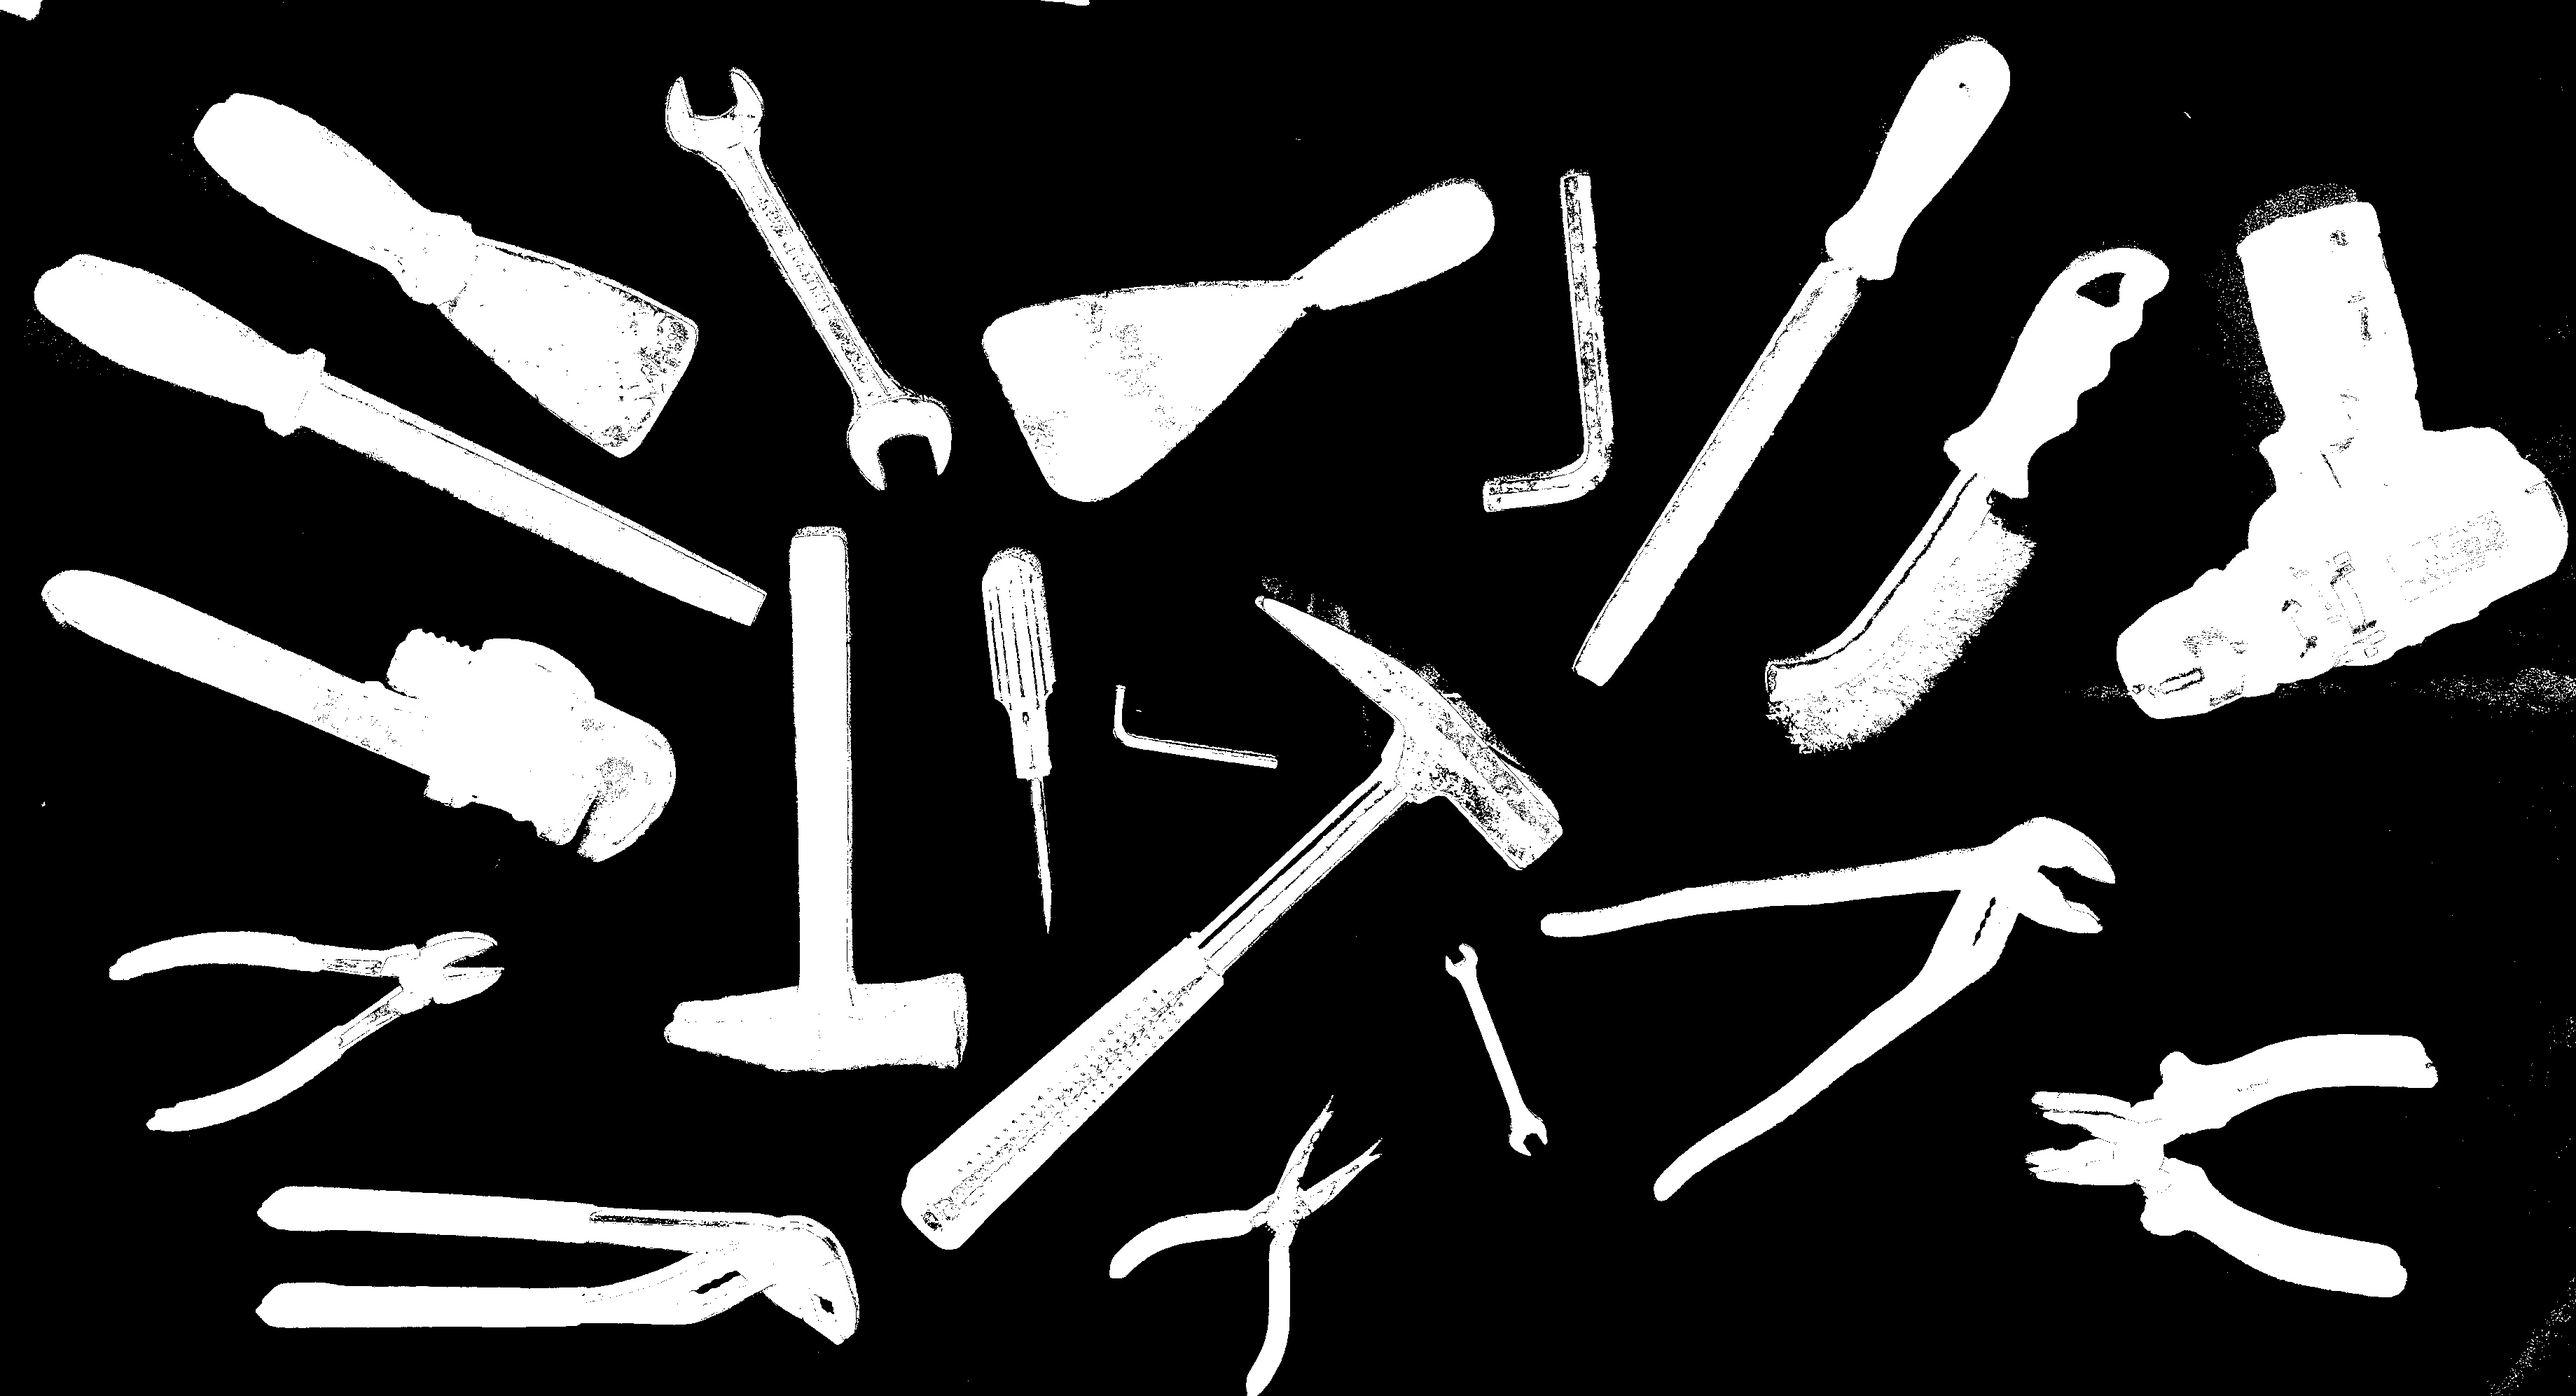
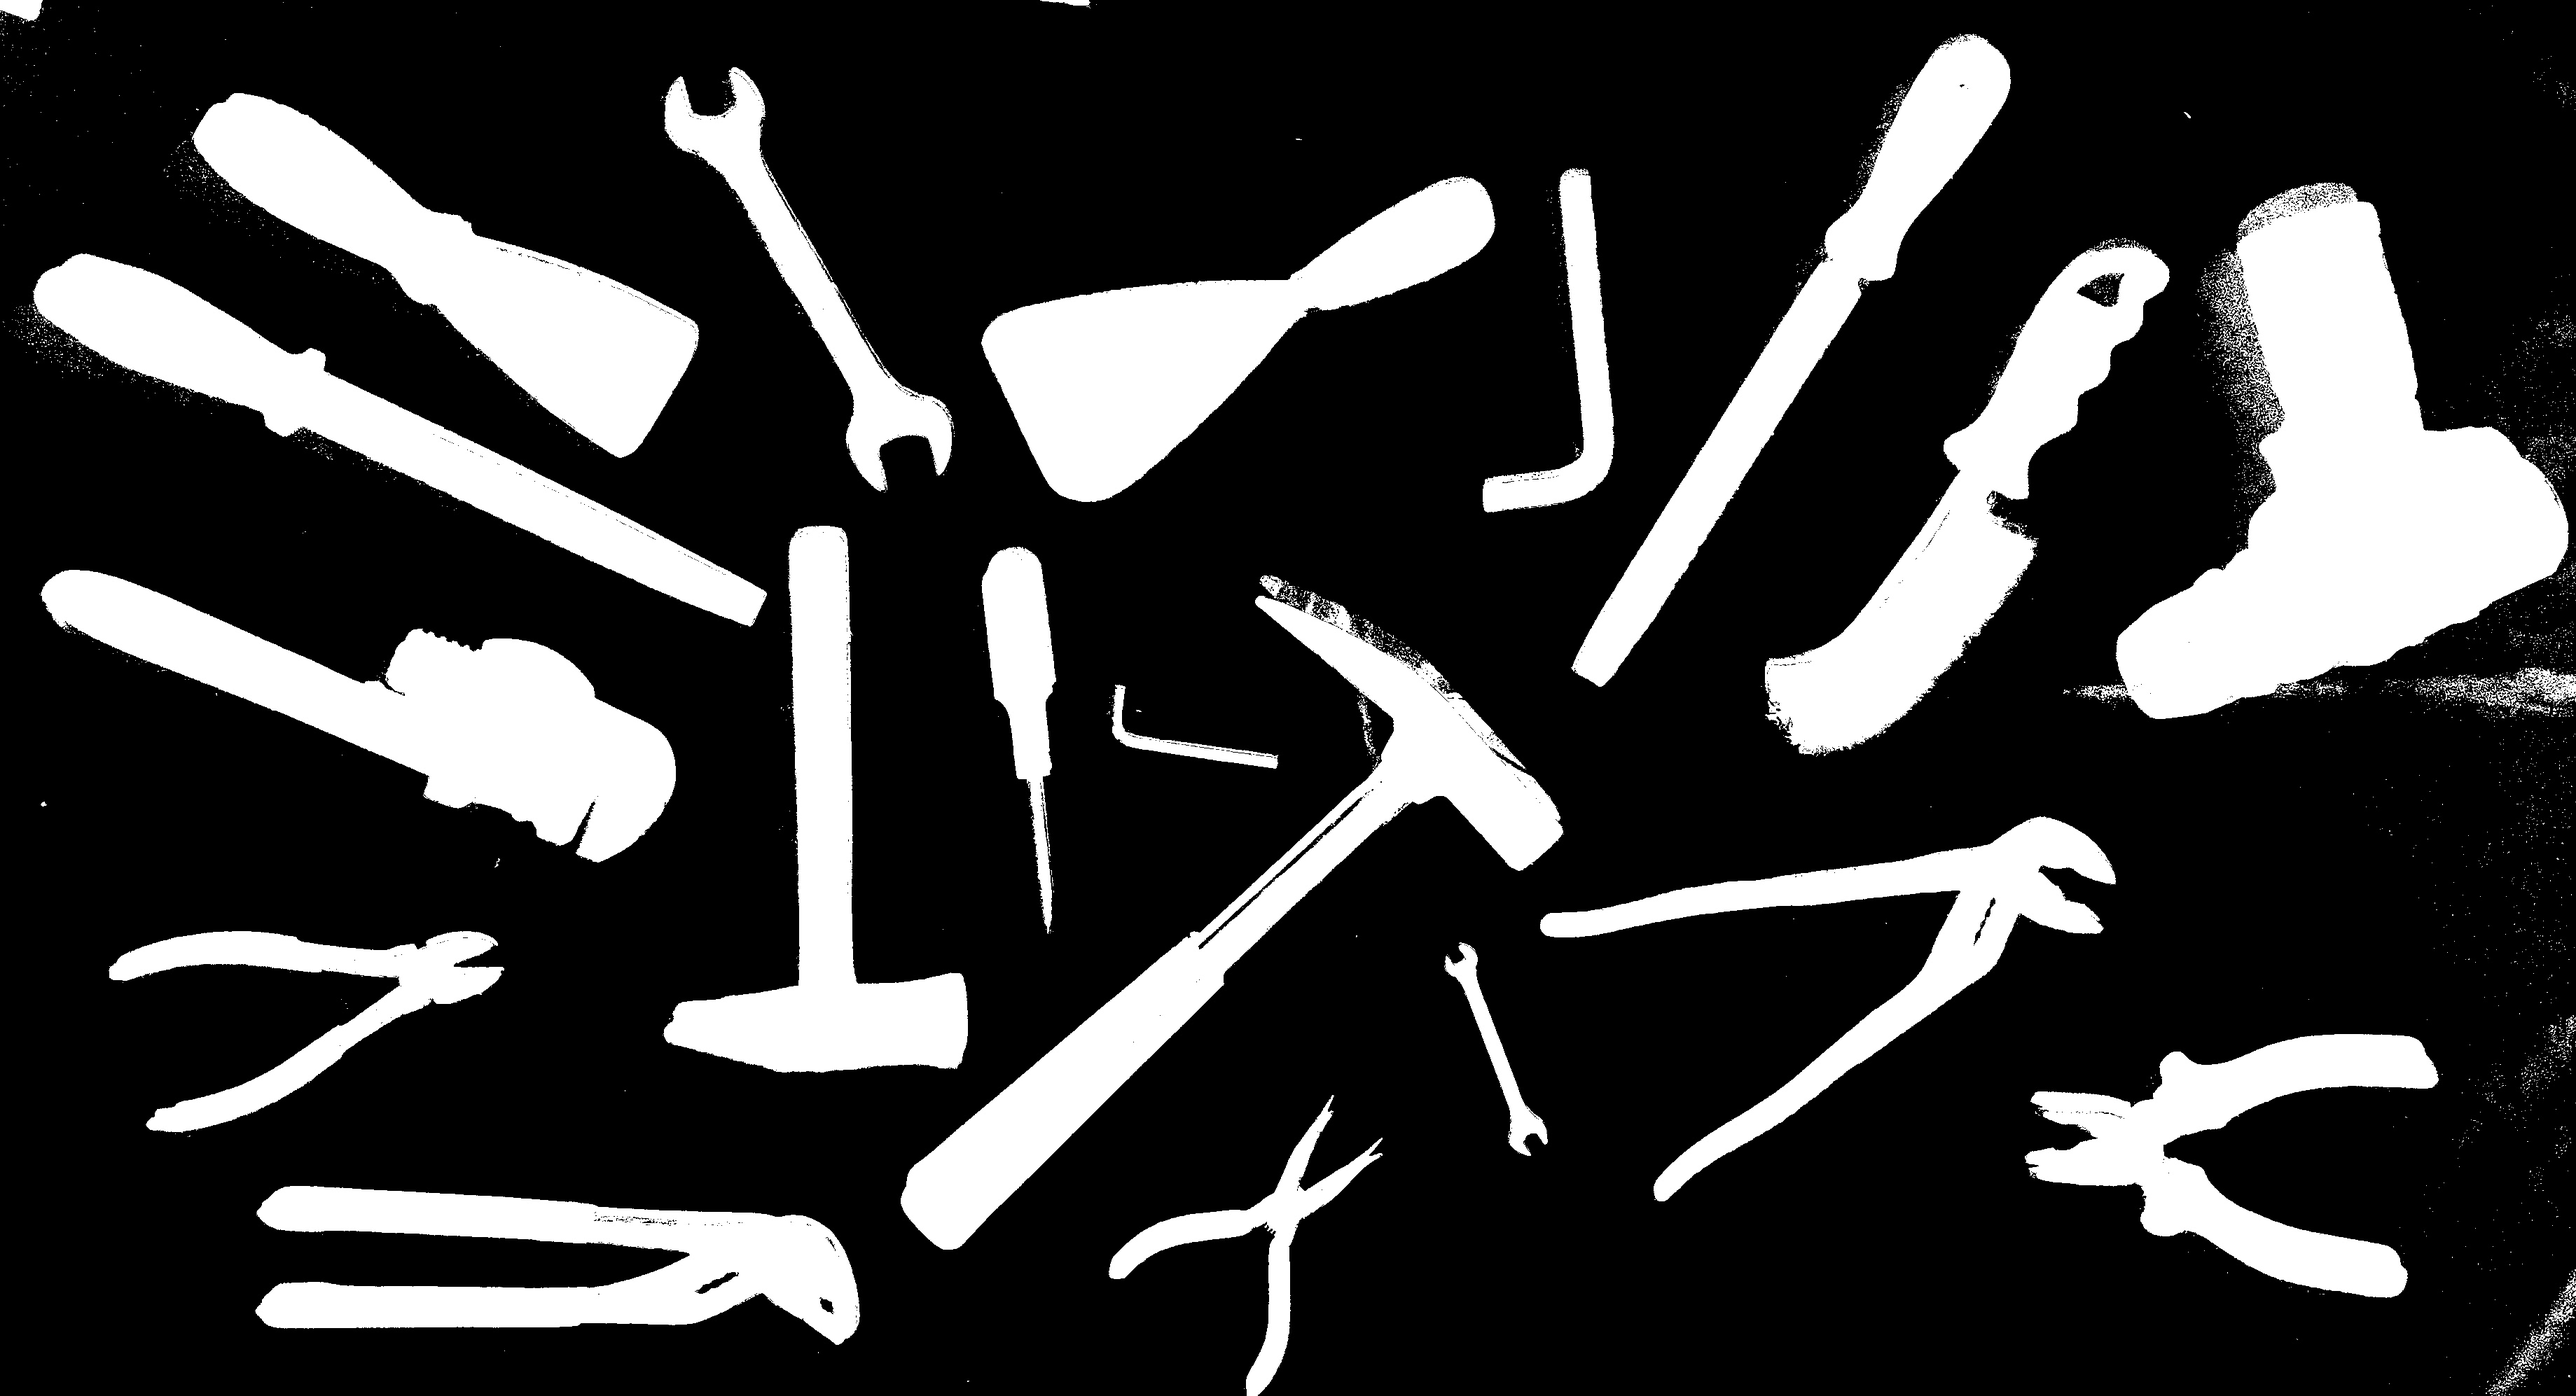
Single object extraction Grayscale lbp

diff --git a/extract_objects.py b/extract_objects.py
@@ -7,6 +7,8 @@ import numpy as np
 
 import descriptors as dsc
 
+import texture_descriptors as tx
+
 
 # NormilizeIntensity imposta ad ogni pixlel un Immagine BGR "Im"
 # lo stesso valore di intensità "i_value"
@@ -129,10 +131,10 @@ cv.createTrackbar(trackbar_k, "gamma", 1, 100, lambda v: on_gamma(v, image, norm
 cv.createTrackbar("media", "gamma", 1, 100, lambda v: on_mean(v, v_mean))
 
 # Inizializza la l'intensità media obiettivo al 50%
-cv.setTrackbarPos('media', 'gamma', 50)
+cv.setTrackbarPos('media', 'gamma', 80)
 
 # Attendi la selezione della gamma da parte dell'utente per passare alla fase successiva
-cv.waitKey(0)
+#cv.waitKey(0) #TODO
 
 # Memorizza l'intensità media obiettivo fornita dall'utente
 goalPerc = cv.getTrackbarPos('media', 'gamma') / 100
@@ -213,22 +215,85 @@ cv.createTrackbar(trackbar_k, bin_window, 0, alpha_slider_max, on_trackbar)
 cv.setTrackbarPos(trackbar_k, bin_window, 6)
 
 #Una volta premuto un tasto salva l'immagine
-cv.waitKey(0)
+#cv.waitKey(0) #TODO
 k = cv.getTrackbarPos(trackbar_k, bin_window)
 
 obj_thresh = extract_objects(NormIm, k, bgRgbMean, bgRgbStd)
 cv.imwrite('no_bg_gamma.jpg', obj_thresh)
 
+connectivity = 4
+output = cv.connectedComponentsWithStats(obj_thresh, connectivity, cv.CV_32S)
+
+(numLabels, labels, stats, centroids) = output
+
+rectImage = image.copy()
+# loop over the number of unique connected component labels
+for i in range(0, numLabels):
+    # if this is the first component then we examine the
+    # *background* (typically we would just ignore this
+    # component in our loop)
+    if i == 0:
+        text = "examining component {}/{} (background)".format(i + 1, numLabels)
+        # otherwise, we are examining an actual connected component
+    else:
+        text = "examining component {}/{}".format( i + 1, numLabels)
+        # print a status message update for the current connected
+        # component
+        print("[INFO] {}".format(text))
+
+        area = stats[i, cv.CC_STAT_AREA]
+
+        if area > 200:
+            # extract the connected component statistics and centroid for
+            # the current label
+            x = stats[i, cv.CC_STAT_LEFT]
+            y = stats[i, cv.CC_STAT_TOP]
+            w = stats[i, cv.CC_STAT_WIDTH]
+            h = stats[i, cv.CC_STAT_HEIGHT]
+
+            (cX, cY) = centroids[i]
+            # clone our original image (so we can draw on it) and then draw
+            # a bounding box surrounding the connected component along with
+            # a circle corresponding to the centroid
+
+            cv.rectangle(rectImage, (x, y), (x + w, y + h), (0, 255, 0), 3)
+            cv.circle(rectImage, (int(cX), int(cY)), 4, (0, 0, 255), -1)
+            cv.imshow('bounding box', rectImage)
+
+            #mask = np.zeros((h,w), dtype="uint8")
+            componentMaskBool = (labels[y:y + h, x:x + w] == i).astype("uint8")
+            componentMask = componentMaskBool * 255
+            masked = cv.bitwise_and(image[y:y + h, x:x + w], image[y:y + h, x:x + w],mask= componentMask)
+
+            gray = cv.cvtColor(masked, cv.COLOR_BGR2GRAY)
+            tx.compute_lbp(gray, componentMaskBool.astype("bool"))
+
+            #cv.imshow('componentMask %d'% i , componentMask)
+            #cv.imshow('masked %d' % i, masked)
+
+cv.waitKey(0)
+
+
 exit(0)
 
 # DONE trova altro modo per normalizzare luce(con gamma)
 # DONE slider con precisione floating point
+#TODO rendi tutto una funzione, in particolare ogni layer della pipeline
+
 # TODO implementa la possibbilità di aggiungere più immagini di bg
 # TODO? implementa l'informazione sugli oggetti
 # TODO rumore gaussiano
+# TODO sperimentare con altri spazi colore
+
+
 
 # TODO Funzione che divide immagine in tasselli
 # TODO Altri descrittori
+
+# TODO LBP e corner detection con istogrammi
+    # TODO Segmentazione
+# TODO shape detection con humoments
+# TODO regioni convesse e simmetriche
 
 # questo ci può servire per fare la sottrazione di due immagini più avanti nel progetto
 # alpha = val / alpha_slider_max

diff --git a/texture_descriptors.py b/texture_descriptors.py
@@ -1,0 +1,128 @@
+import numpy as np
+import matplotlib.pyplot as plt
+
+
+from skimage.transform import rotate
+from skimage.feature import local_binary_pattern
+from skimage import data
+from skimage.color import label2rgb
+
+from skimage import feature
+import numpy as np
+
+import cv2 as cv
+# settings for LBP
+# radius = 3
+# n_points = 8 * radius
+#
+#
+# def overlay_labels(image, lbp, labels):
+#     mask = np.logical_or.reduce([lbp == each for each in labels])
+#     return label2rgb(mask, image=image, bg_label=0, alpha=0.5)
+#
+#
+# def highlight_bars(bars, indexes):
+#     for i in indexes:
+#         bars[i].set_facecolor('r')
+#
+#
+# # image = data.brick()
+# # lbp = local_binary_pattern(image, n_points, radius, METHOD)
+#
+#
+# def hist(ax, lbp):
+#     n_bins = int(lbp.max() + 1)
+#     return ax.hist(lbp.ravel(), density=True, bins=n_bins, range=(0, n_bins),
+#                    facecolor='0.5')
+#
+#
+# # plot histograms of LBP of textures
+# fig, (ax_img, ax_hist) = plt.subplots(nrows=2, ncols=3, figsize=(9, 6))
+# plt.gray()
+#
+# titles = ('edge', 'flat', 'corner')
+# w = width = radius - 1
+# edge_labels = range(n_points // 2 - w, n_points // 2 + w + 1)
+# flat_labels = list(range(0, w + 1)) + list(range(n_points - w, n_points + 2))
+# i_14 = n_points // 4            # 1/4th of the histogram
+# i_34 = 3 * (n_points // 4)      # 3/4th of the histogram
+# corner_labels = (list(range(i_14 - w, i_14 + w + 1)) +
+#                  list(range(i_34 - w, i_34 + w + 1)))
+#
+# label_sets = (edge_labels, flat_labels, corner_labels)
+#
+# for ax, labels in zip(ax_img, label_sets):
+#     ax.imshow(overlay_labels(image, lbp, labels))
+#
+# for ax, labels, name in zip(ax_hist, label_sets, titles):
+#     counts, _, bars = hist(ax, lbp)
+#     highlight_bars(bars, labels)
+#     ax.set_ylim(top=np.max(counts[:-1]))
+#     ax.set_xlim(right=n_points + 2)
+#     ax.set_title(name)
+#
+# ax_hist[0].set_ylabel('Percentage')
+# for ax in ax_img:
+#     ax.axis('off')
+
+
+def compute_lbp(img, mask):
+    #img = cv.cvtColor(img, cv.COLOR_BGR2GRAY)
+
+    P = 12
+    R = 4
+    # dim = 2**P
+    dim = P+4
+    h_bins = np.arange(dim+1)
+    h_range = (0, dim)
+    (r, c) = img.shape
+
+    codes = local_binary_pattern(img, P, R, method="uniform")
+    #masked= np.ma.masked_where(mask == True, codes)
+    #nmask = np.logical_not(np.logical_not(mask))
+    print(type(codes))
+    print(codes)
+    print(type(mask))
+    print(mask)
+    plt.imshow(codes)
+    plt.colorbar()
+    plt.xticks([]), plt.yticks([])
+    plt.show()
+    h_img, _ = np.histogram(codes.ravel(), bins=h_bins, range=h_range)
+    h_masked, _ = np.histogram(codes[mask], bins=h_bins, range=h_range)
+    h_img = h_img/h_img.sum(dtype=np.float)
+    h_masked = h_masked/h_masked.sum(dtype=np.float)
+
+    f, [[ax0, ax1], [ax2, ax3]] = plt.subplots(2, 2)
+    ax0.imshow(img, cmap=plt.cm.gray)
+    ax0.axis('off')
+    ax0.set_title('Image')
+    ax1.imshow(mask, cmap=plt.cm.gray)
+    ax1.axis('off')
+    ax1.set_title('Mask')
+    ax2.plot(h_img)
+    ax2.set_title('LBP of image')
+    ax3.plot(h_masked)
+    ax3.set_title('LBP of ROI')
+    plt.show()
+
+
+class LocalBinaryPatterns:
+	def __init__(self, numPoints, radius):
+		# store the number of points and radius
+		self.numPoints = numPoints
+		self.radius = radius
+	def describe(self, image, eps=1e-7):
+		# compute the Local Binary Pattern representation
+		# of the image, and then use the LBP representation
+		# to build the histogram of patterns
+		lbp = feature.local_binary_pattern(image, self.numPoints,
+			self.radius, method="uniform")
+		(hist, _) = np.histogram(lbp.ravel(),
+			bins=np.arange(0, self.numPoints + 3),
+			range=(0, self.numPoints + 2))
+		# normalize the histogram
+		hist = hist.astype("float")
+		hist /= (hist.sum() + eps)
+		# return the histogram of Local Binary Patterns
+		return hist
